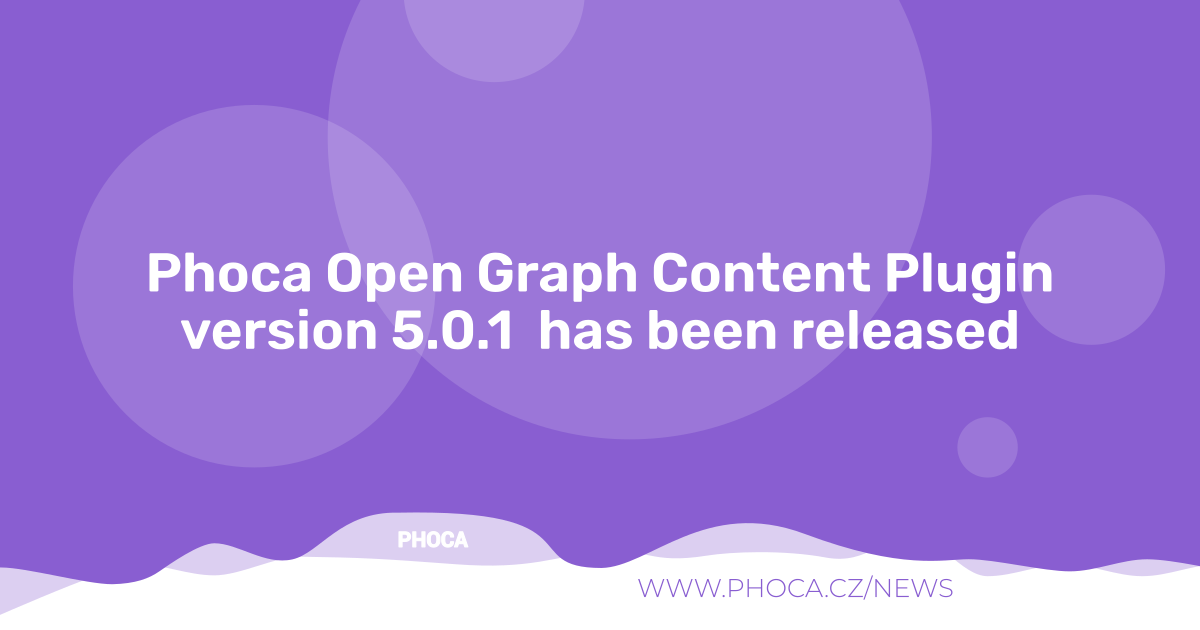
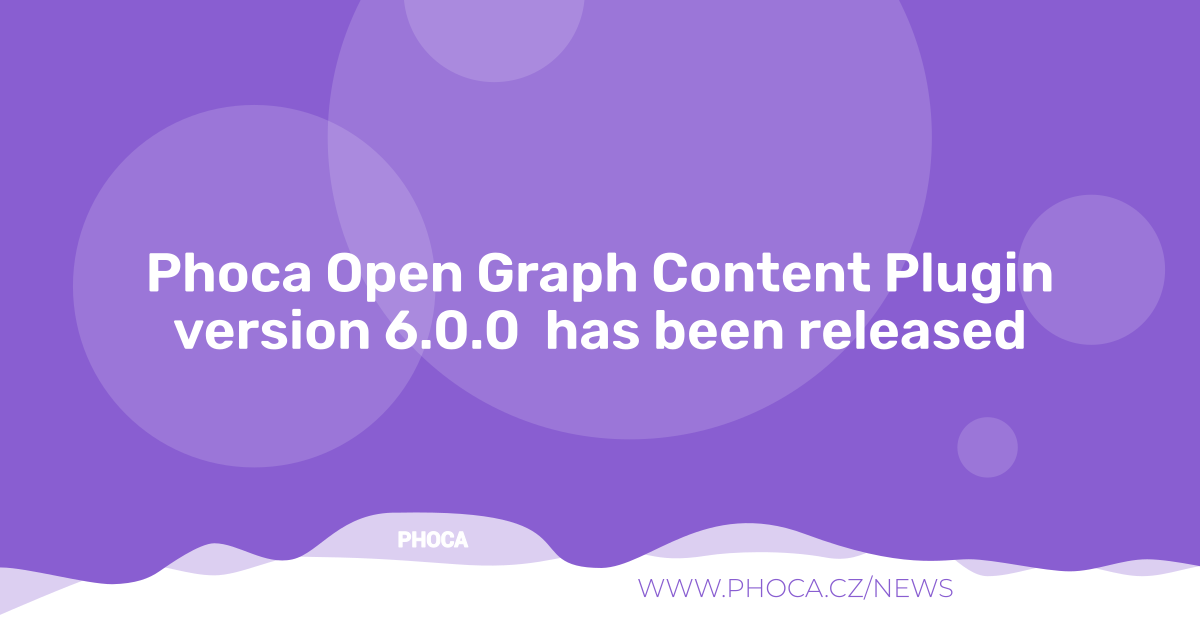
6.0.0

Changed region(s): [[0.1233, 0.4825, 0.8633, 0.573]]

diff --git a/phocaopengraph.php b/phocaopengraph.php
@@ -8,7 +8,6 @@
  */
 
 use Joomla\CMS\Factory;
-use Joomla\CMS\Filesystem\File;
 use Joomla\CMS\HTML\HTMLHelper;
 use Joomla\Registry\Registry;
 use Joomla\CMS\Plugin\CMSPlugin;
@@ -128,11 +127,11 @@ class plgContentPhocaOpenGraph extends CMSPlugin
 	public function onContentAfterDisplay($context, &$row, &$params, $page=0) {
 
 		$app 	= Factory::getApplication();
-		$view	= $app->input->get('view');// article, category, featured
-		$option	= $app->input->get('option');// article, category, featured
-		$itemid	= $app->input->get('Itemid');
+		$view	= $app->getInput()->get('view');// article, category, featured
+		$option	= $app->getInput()->get('option');// article, category, featured
+		$itemid	= $app->getInput()->get('Itemid');
 
-		/*if ($view == 'article' && $app->input->get('id') != $row->id) {
+		/*if ($view == 'article' && $app->getInput()->get('id') != $row->id) {
 			// Page displays article so we want to set metadata for main content article only
 			return;
 		}*/
@@ -220,6 +219,10 @@ class plgContentPhocaOpenGraph extends CMSPlugin
 		$desc_type_category	= $this->params->get('desc_type_category', 1);
 
 		$active = $app->getMenu()->getActive();
+		$activeParams = [];
+		if ($active) {
+			$activeParams = $active->getParams();
+		}
 
 
 
@@ -274,8 +277,8 @@ class plgContentPhocaOpenGraph extends CMSPlugin
 					$thisDesc	= $row->metadesc;
 				}
 			} else if ($desc_type_featured == 3) {
-				if (isset($active->params) && !empty($active->params->get('menu-meta_description')) && $active->params->get('menu-meta_description') != '') {
-					$thisDesc	= $active->params->get('menu-meta_description');
+				if (!empty($activeParams->get('menu-meta_description')) && $activeParams->get('menu-meta_description') != '') {
+					$thisDesc	= $activeParams->get('menu-meta_description');
 				}
 			}
 
@@ -327,8 +330,8 @@ class plgContentPhocaOpenGraph extends CMSPlugin
 			}
 
 			if ($desc_type_category == 3 || $thisDesc == '') {
-				if (isset($active->params) && !empty($active->params->get('menu-meta_description')) && $active->params->get('menu-meta_description') != '') {
-					$thisDesc	= $active->params->get('menu-meta_description');
+				if (!empty($activeParams->get('menu-meta_description')) && $activeParams->get('menu-meta_description') != '') {
+					$thisDesc	= $activeParams->get('menu-meta_description');
 				}
 			}
 
@@ -433,11 +436,11 @@ class plgContentPhocaOpenGraph extends CMSPlugin
 					jimport( 'joomla.filesystem.file' );
 					$imgPath	= '';
 					$path 		= JPATH_ROOT . '/images/phocaopengraph/';
-					if (File::exists($path . '/' . (int)$row->id.'.jpg')) {
+					if (is_file($path . '/' . (int)$row->id.'.jpg')) {
 						$imgPath = 'images/phocaopengraph/'.(int)$row->id.'.jpg';
-					} else if (File::exists($path . '/' . (int)$row->id.'.png')) {
+					} else if (is_file($path . '/' . (int)$row->id.'.png')) {
 						$imgPath = 'images/phocaopengraph/'.(int)$row->id.'.png';
-					} else if (File::exists($path . '/' . (int)$row->id.'.gif')) {
+					} else if (is_file($path . '/' . (int)$row->id.'.gif')) {
 						$imgPath = 'images/phocaopengraph/'.(int)$row->id.'.gif';
 					}
 
@@ -483,8 +486,8 @@ class plgContentPhocaOpenGraph extends CMSPlugin
 			// FORCE NOTHING - FEATURED VIEW
 		} else if (isset($thisDesc) && $thisDesc != '') { // article meta description
 			$this->renderTag('og:description', $thisDesc, $type);
-		} else if (isset($active->params) && !empty($active->params->get('menu-meta_description')) && $active->params->get('menu-meta_description') != '') {// menu link meta description
-			$this->renderTag('og:description', $active->params->get('menu-meta_description'), $type);
+		} else if (!empty($activeParams->get('menu-meta_description')) && $activeParams->get('menu-meta_description') != '') {// menu link meta description
+			$this->renderTag('og:description', $activeParams->get('menu-meta_description'), $type);
 
 		} else if (isset($row->introtext) && $row->introtext != '' && $desc_intro == 1) { // artcle introtext
 

diff --git a/README.MD b/README.MD
@@ -60,7 +60,7 @@ Phoca Open Graph Content Plugin is a Joomla! CMS Plugin. It adds open graph info
 
 ## Version (Joomla! 5.x)
 
-5.0.1
+5.0.2
 
 
 
